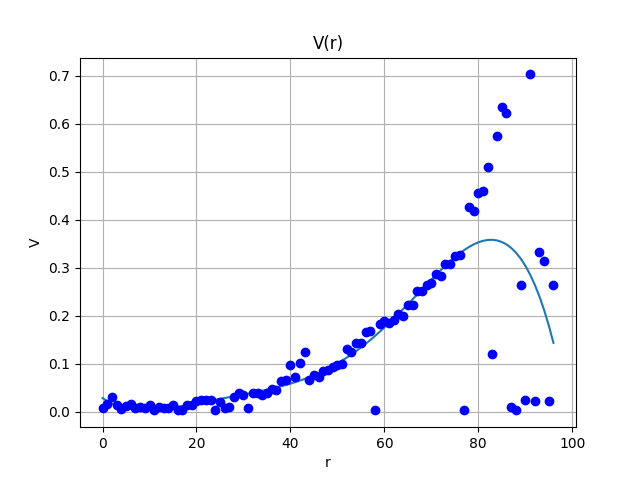
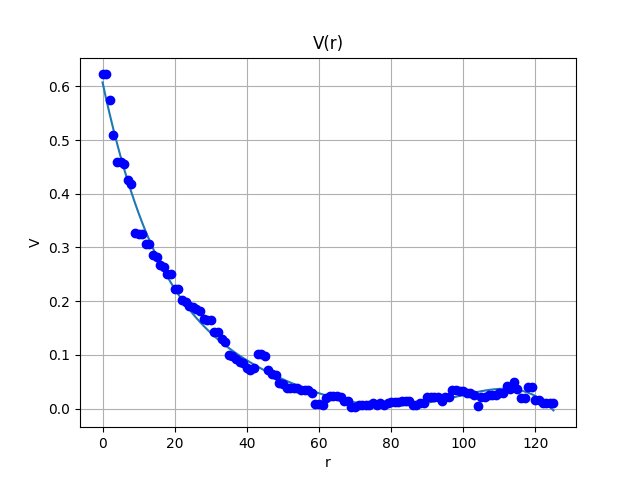
fix: Filter data & plot valid chart

diff --git a/analysis.py b/analysis.py
@@ -1,6 +1,6 @@
-from typing import TypeVar
+from typing import TypeVar, Optional
 import numpy
-from scipy.signal import argrelmax, argrelmin
+from scipy.signal import argrelmax, argrelmin, medfilt
 
 
 class Visibility:
@@ -12,6 +12,7 @@ class Visibility:
 T = TypeVar('T')
 
 
+# Find all relative extremes
 def extremes(values: [T]) -> [T]:
     max_indices = argrelmax(numpy.array(values))[0]
     min_indices = argrelmin(numpy.array(values))[0]
@@ -19,8 +20,11 @@ def extremes(values: [T]) -> [T]:
     max_i = 0
     min_i = 0
     result = []
+
+    # Merge two arrays of minimums and maximums into one
     while max_i < len(max_indices) and min_i < len(min_indices):
-        if max_indices[max_i] < min_indices[min_i] and values[max_indices[max_i]] > values[min_indices[min_i]]:
+        if max_indices[max_i] < min_indices[min_i] and \
+                values[max_indices[max_i]] > values[min_indices[min_i]]:
             result.append(values[max_indices[max_i]])
             max_i += 1
         else:
@@ -31,14 +35,20 @@ def extremes(values: [T]) -> [T]:
     return result
 
 
+# Find visibility values & visibility function
 def visibility(i_extremes: [float]) -> Visibility:
     visibility_values = []
     for i in range(len(i_extremes) - 1):
         i_max = max(i_extremes[i], i_extremes[i + 1])
         i_min = min(i_extremes[i], i_extremes[i + 1])
+        # Visibility value
         vis = (i_max - i_min) / (i_max + i_min)
         visibility_values.append(vis)
 
+    # Filter data to smooth function
+    visibility_values = medfilt(visibility_values)
+    # Get polynome coefficients
     coefficients = numpy.polyfit(x=range(len(visibility_values)), y=visibility_values, deg=5)
+    # Create polynome function
     func = numpy.poly1d(coefficients)
     return Visibility(visibility_values, func)

diff --git a/main.py b/main.py
@@ -5,13 +5,7 @@ import matplotlib.pyplot as pyplot
 from os import path, mkdir
 
 
-def print_data(data: [[int]]):
-    i = 0
-    for row in data:
-        print(f"{i}: ", " ".join(map(lambda value: '{:0>3d}'.format(value), row)))
-        i += 1
-
-
+# Find center line of picture (with black circle)
 def find_center(data: [[int]]) -> [int]:
     if len(data) == 0:
         return []
@@ -25,6 +19,7 @@ def find_center(data: [[int]]) -> [int]:
     return data[min_i]
 
 
+# Plot chart and save to file
 def plot_results(plot_path: str, visibility: analysis.Visibility):
     pyplot.grid()
     pyplot.title('V(r)')
@@ -33,7 +28,7 @@ def plot_results(plot_path: str, visibility: analysis.Visibility):
 
     r = range(len(visibility.values))
 
-    pyplot.plot(r, visibility.func(r), visibility.values, 'bo')
+    pyplot.plot(r, visibility.func(r), r, visibility.values, 'bo')
 
     pyplot.savefig(plot_path)
 
@@ -43,22 +38,24 @@ def main(debug: bool = False):
 
     # Strip top & bottom parts of picture because they are too dark
     data = data[(len(data) // 5):(len(data) - len(data) // 5)]
+
     # Find line, containing center of circle
     values = find_center(data)
 
-    values = values[(len(values) // 5):(len(values) - len(values) // 4)]
+    # Turn line to receive it from center to the end of rings
+    values = values[515:60:-1]
+
     # Find extremes of this line
     extremes = analysis.extremes(values)
     # Find approximated visibility function
     visibility = analysis.visibility(extremes)
 
     print(str(visibility.func))
-    if debug:
-        print(len(visibility.values))
+
     if not path.exists('results'):
         mkdir('results')
     plot_results('results/plot.png', visibility)
 
 
 if __name__ == '__main__':
-    main(debug=True)
+    main(debug=False)

diff --git a/reader.py b/reader.py
@@ -1,6 +1,7 @@
 from PIL import Image
 
 
+# Read image using defined channel (default is green)
 def read(img: str, channel: int = 1) -> [[int]]:
     img = Image.open(img).convert(mode='RGB')
     data = [[0 for _ in range(img.width)]
@@ -8,5 +9,4 @@ def read(img: str, channel: int = 1) -> [[int]]:
     for i in range(img.height):
         for j in range(img.width):
             data[i][j] = img.getpixel((j, i))[channel]
-    print(data[328])
     return data
